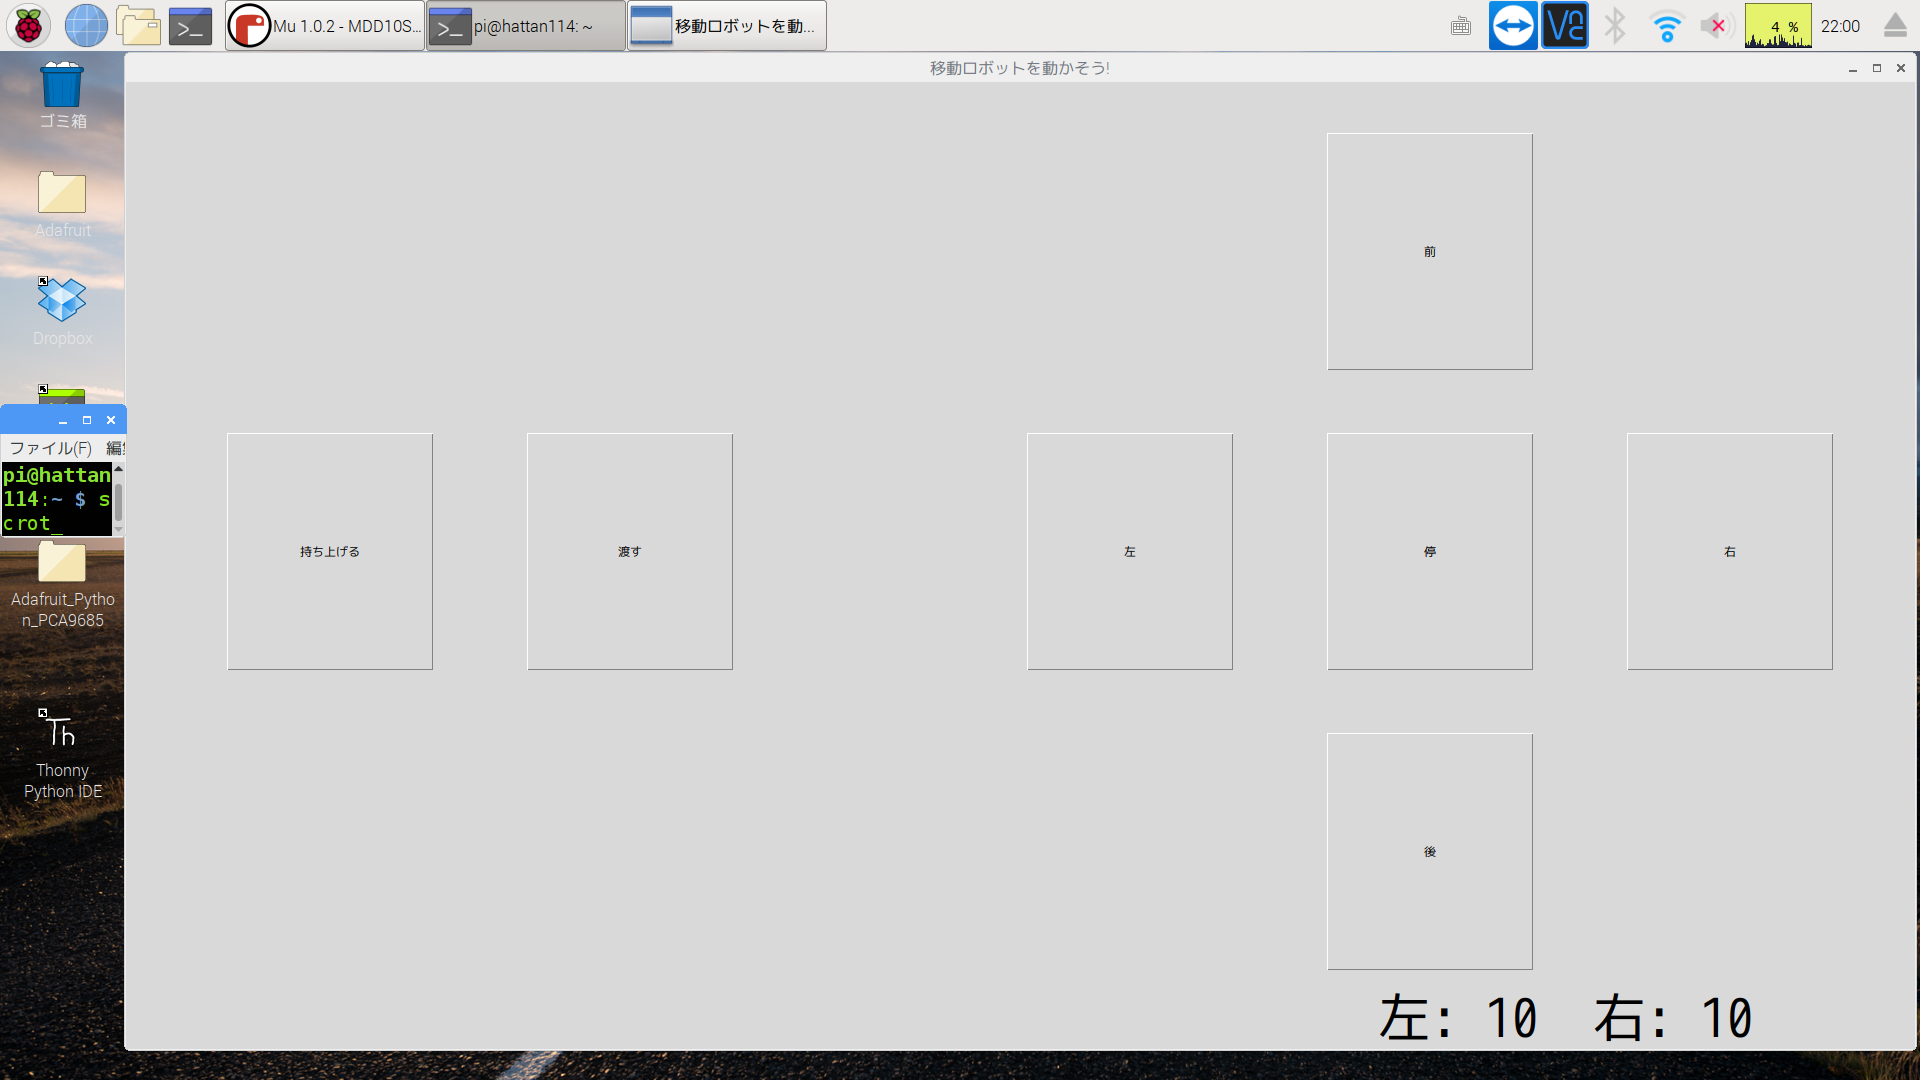
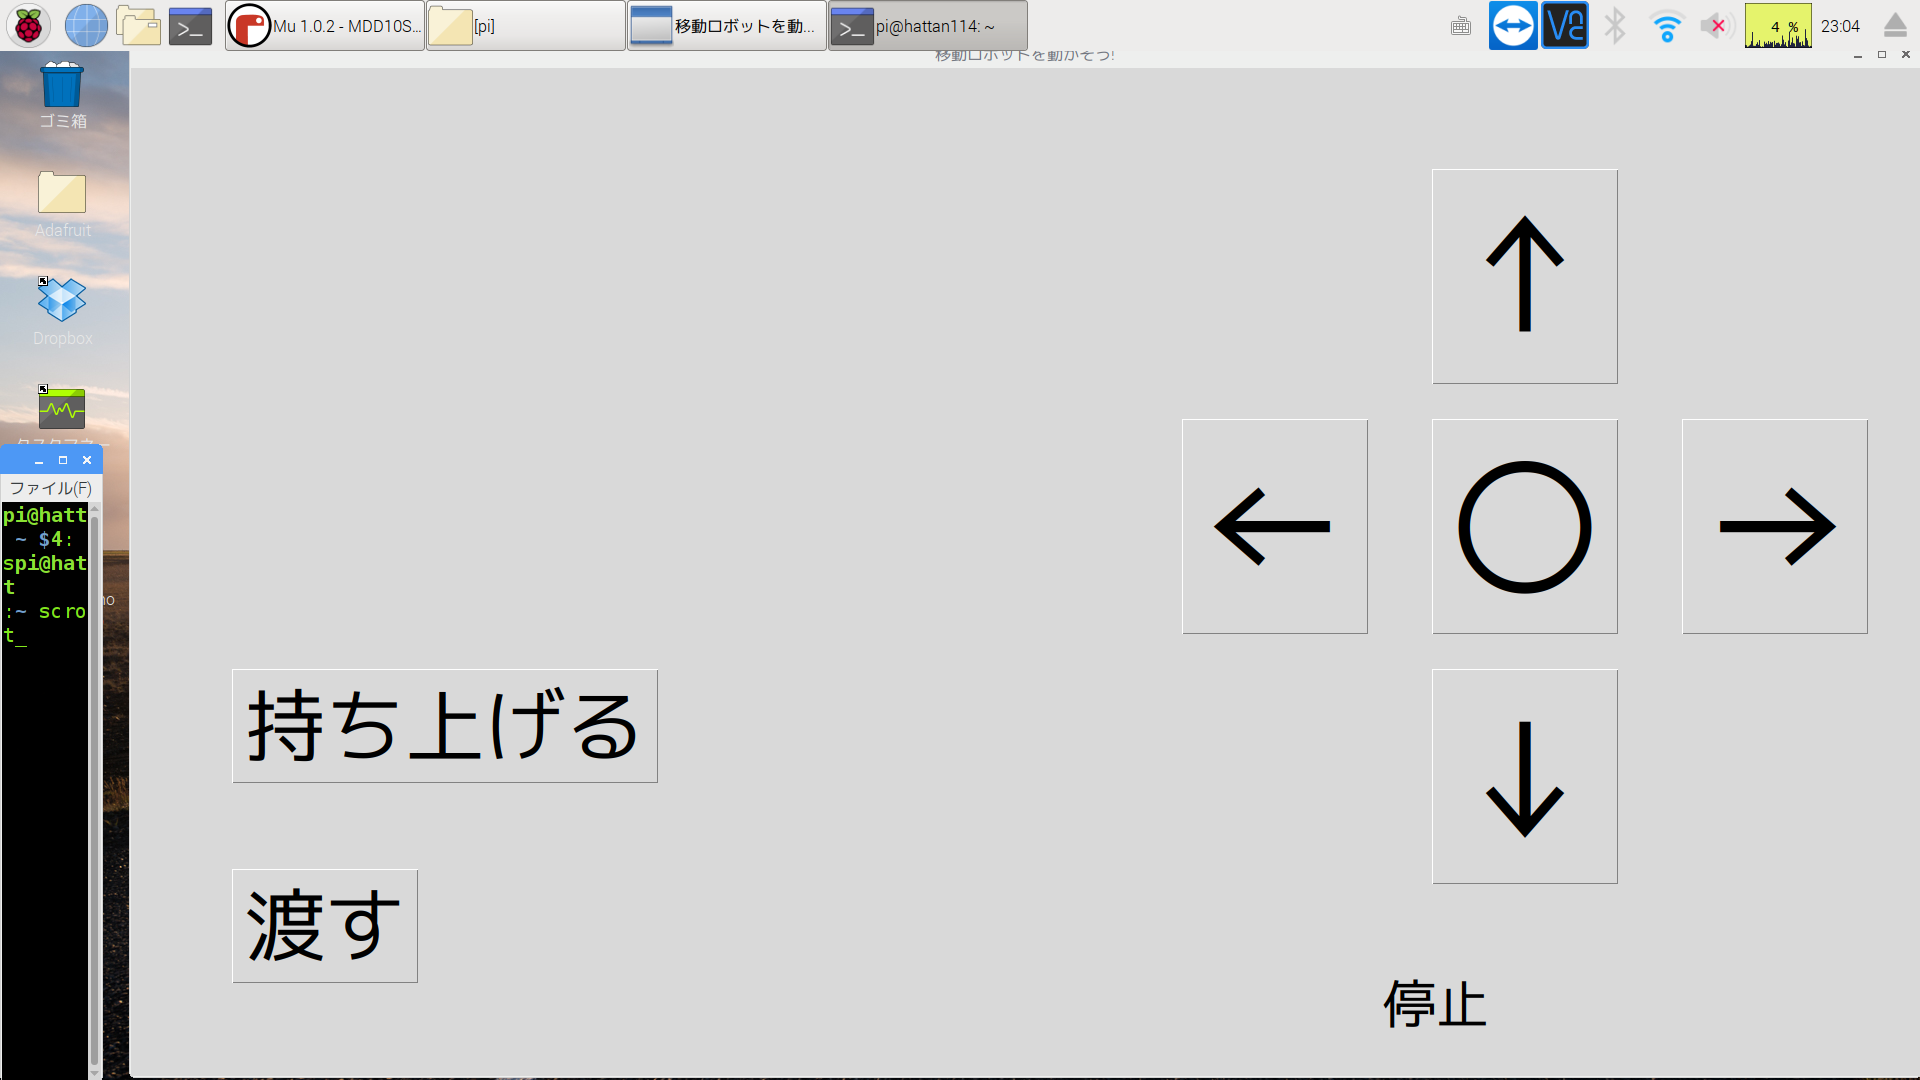
a little fix

diff --git a/HAT_MDD10/MDD10SM_GUI04.py b/HAT_MDD10/MDD10SM_GUI04.py
@@ -159,39 +159,37 @@ def pass_object(event):
 
 
 #----------------------------------------------
-STOP_BUTTON_X=1200
+STOP_BUTTON_X=1300
 STOP_BUTTON_Y=350
+FONT_SIZE = 120
 
-BUTTON_HEIGTH = 15
-BUTTON_WIDTH = 30
-
-Button_Forward = tk.Button(text="前", height=BUTTON_HEIGTH, width=BUTTON_WIDTH)
+Button_Forward = tk.Button(text="↑", font=("", FONT_SIZE))
 Button_Forward.bind("<Button-1>", forward)
-Button_Forward.place(x=STOP_BUTTON_X, y=STOP_BUTTON_Y-300)
+Button_Forward.place(x=STOP_BUTTON_X, y=STOP_BUTTON_Y-250)
 
-Button_Back = tk.Button(text="後", height=BUTTON_HEIGTH, width=BUTTON_WIDTH)
+Button_Back = tk.Button(text="↓", font=("", FONT_SIZE))
 Button_Back.bind("<Button-1>", back)
-Button_Back.place(x=STOP_BUTTON_X, y=STOP_BUTTON_Y+300)
+Button_Back.place(x=STOP_BUTTON_X, y=STOP_BUTTON_Y+250)
 
-Button_Right = tk.Button(text="右", height=BUTTON_HEIGTH, width=BUTTON_WIDTH)
+Button_Right = tk.Button(text="→", font=("", FONT_SIZE))
 Button_Right.bind("<Button-1>", right)
-Button_Right.place(x=STOP_BUTTON_X+300, y=STOP_BUTTON_Y)
+Button_Right.place(x=STOP_BUTTON_X+250, y=STOP_BUTTON_Y)
 
-Button_Left = tk.Button(text="左", height=BUTTON_HEIGTH, width=BUTTON_WIDTH)
+Button_Left = tk.Button(text="←", font=("", FONT_SIZE))
 Button_Left.bind("<Button-1>", left)
-Button_Left.place(x=STOP_BUTTON_X-300, y=STOP_BUTTON_Y)
+Button_Left.place(x=STOP_BUTTON_X-250, y=STOP_BUTTON_Y)
 
-Button_Stop = tk.Button(text="停", height=BUTTON_HEIGTH, width=BUTTON_WIDTH)
+Button_Stop = tk.Button(text="○", font=("", FONT_SIZE))
 Button_Stop.bind("<Button-1>", stop)
 Button_Stop.place(x=STOP_BUTTON_X, y=STOP_BUTTON_Y)
 
-Button_Get = tk.Button(text="持ち上げる", height=BUTTON_HEIGTH, width=BUTTON_WIDTH)
+Button_Get = tk.Button(text="持ち上げる", font=("", 60))
 Button_Get.bind("<Button-1>", get)
-Button_Get.place(x=100, y=350)
+Button_Get.place(x=100, y=600)
 
-Button_Pass = tk.Button(text="渡す", height=BUTTON_HEIGTH, width=BUTTON_WIDTH)
+Button_Pass = tk.Button(text="渡す", font=("", 60))
 Button_Pass.bind("<Button-1>", pass_object)
-Button_Pass.place(x=400, y=350)
+Button_Pass.place(x=100, y=800)
 
 
 #var = tk.DoubleVar()
